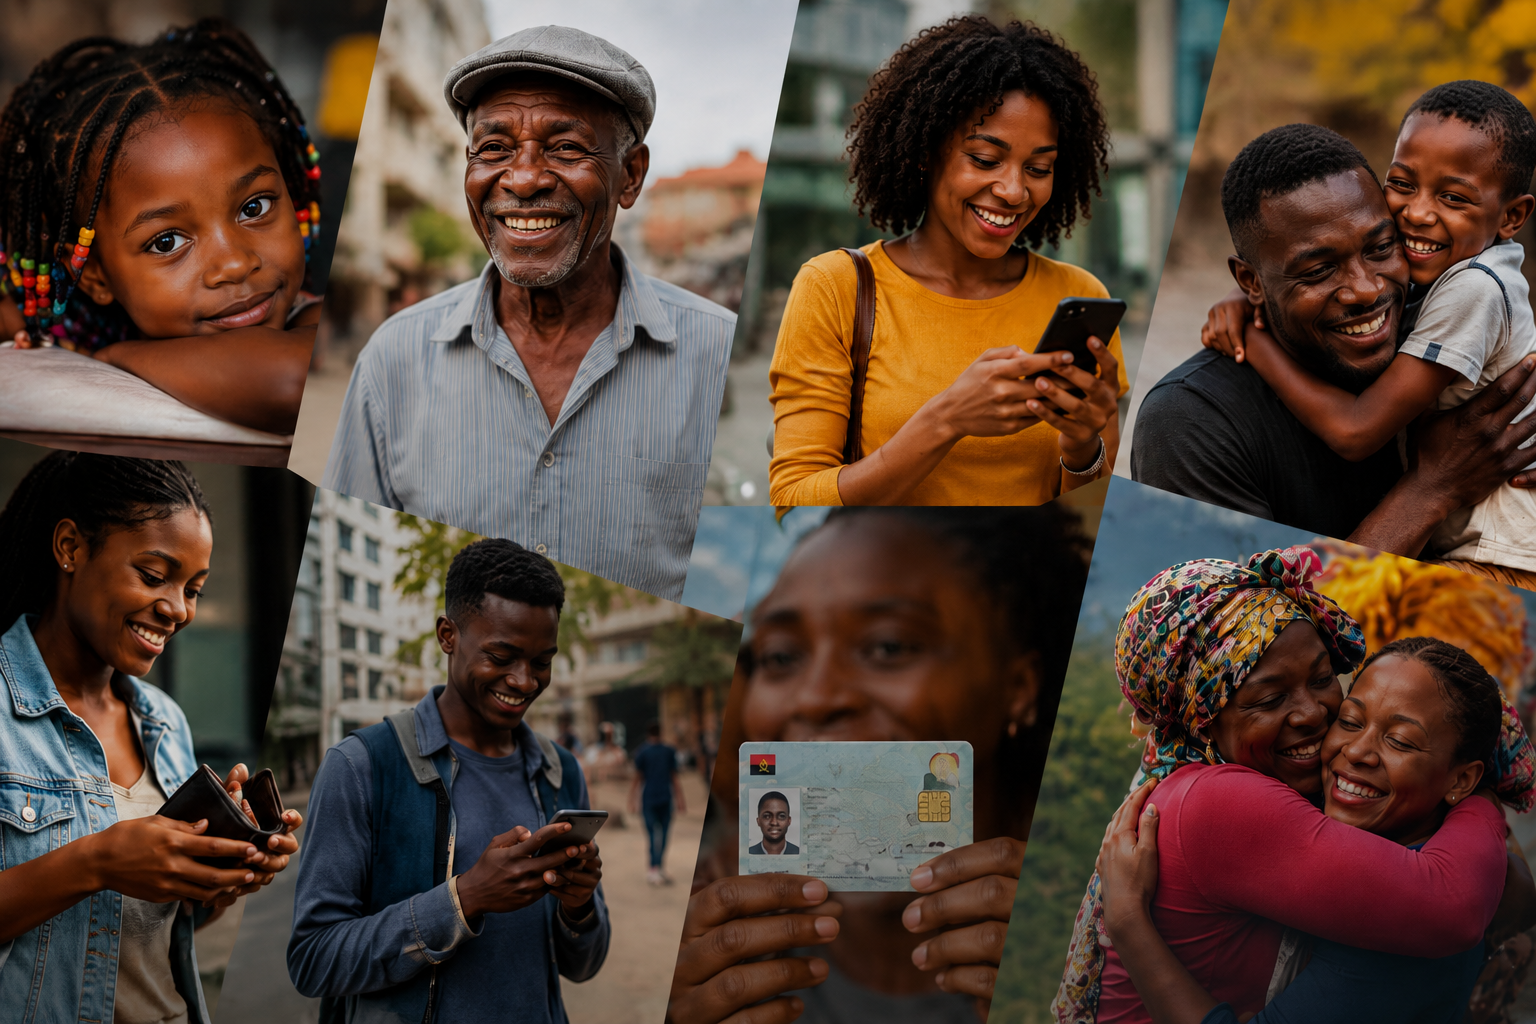
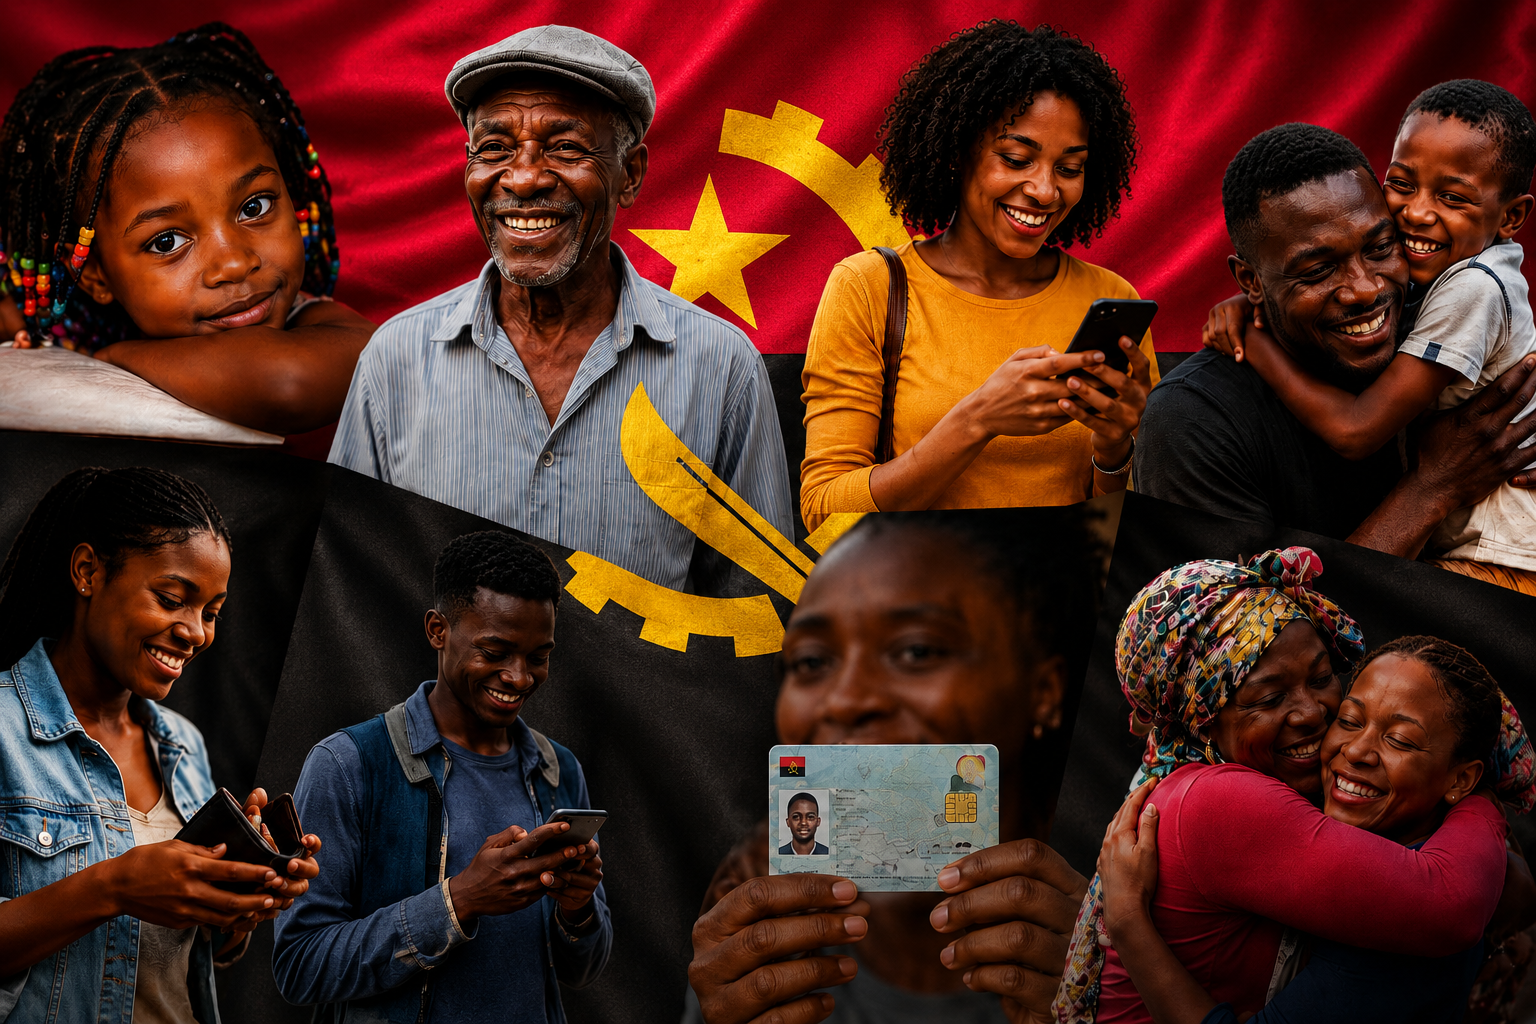
adicionar imagem ao projecto
alteracao second

diff --git a/server.js b/server.js
@@ -1,131 +1,27 @@
 const express = require("express");
-const path = require("path");
+const cors = require("cors");
+const { Pool } = require("pg");
 
 const app = express();
-const PORT = 3000;
 
-// Permite receber dados em JSON
+app.use(cors());
 app.use(express.json());
 
-// Permite receber dados de formulários
-app.use(express.urlencoded({ extended: true }));
 
-// Servir ficheiros estáticos (HTML, CSS, JS, imagens)
-app.use(express.static(path.join(__dirname)));
-
-// Página inicial
-app.get("/", (req, res) => {
-    res.sendFile(path.join(__dirname, "index.html"));
+const db = new Pool({
+    user: "postgres",
+    host: "localhost",
+    database: "perdidos_achados",
+    password: "A_TUA_SENHA_DO_POSTGRES",
+    port: 5432
 });
 
-// Rota de teste
-app.get("/api", (req, res) => {
-    res.json({
-        mensagem: "Servidor do Perdidos & Achados.ao está a funcionar!"
-    });
-});
-// Base de dados temporária (em memória)
 
-const anuncios = [
-
-{
-    id:1,
-    titulo:"Bilhete encontrado",
-    provincia:"Luanda",
-    municipio:"Viana",
-    estado:"Perdido",
-    foto:"bi.jpg"
-},
-
-{
-    id:2,
-    titulo:"Carteira Perdida",
-    provincia:"Luanda",
-    municipio:"Talatona",
-    estado:"Perdido",
-    foto:"carteira.jpg"
-},
-
-{
-    id:3,
-    titulo:"iPhone 14 Encontrado!",
-    provincia:"Luanda",
-    municipio:"Cazenga",
-    estado:"Encontrado",
-    foto:"iphone.jpg"
-},
-
-{
-    id:4,
-    titulo:"chaves encontradas",
-    provincia:"Benguela",
-    municipio:"Baia",
-    estado:"Encontrado",
-    foto:"chave.jpg"
-},
-
-{
-    id:5,
-    titulo:"meninos desaparecidos",
-    provincia:"Huambo",
-    municipio:"lubango",
-    estado:"perdido",
-    foto:"pessoa.jpg"
-},
-
-{
-    id:6,
-    titulo:"mochila esquecida",
-    provincia:"Icolo e bengo",
-    municipio:"zango 1",
-    estado:"perdido",
-    foto:"mochila.jpg"
-},
-
-{
-    id:7,
-    titulo:"cao desaparecido",
-    provincia:"Cabinda",
-    municipio:"Cabinda",
-    estado:"perdido",
-    foto:"animal.jpg"
-},
-
-{
-    id:8,
-    titulo:"pen-drive esquecido",
-    provincia:"Luanda",
-    municipio:"morrobento",
-    estado:"Encontrado",
-    foto:"pen-drive.jpg"
-},
-
-];
-
-// Listar anúncios
-
-app.get("/api/anuncios", (req, res) => {
-
-    const pesquisa = req.query.q;
-
-    if (!pesquisa) {
-        return res.json(anuncios);
-    }
-
-    const resultado = anuncios.filter(anuncio =>
-
-        anuncio.titulo.toLowerCase().includes(pesquisa.toLowerCase())
-
-    );
-
-    res.json(resultado);
-
+app.get("/", (req,res)=>{
+    res.send("Servidor Perdidos & Achados funcionando!");
 });
 
-// Iniciar servidor
-app.listen(PORT, () => {
-    console.log("==================================");
-    console.log("Perdidos & Achados.ao");
-    console.log(`Servidor iniciado em: http://localhost:${PORT}`);
-    console.log("==================================");
+
+app.listen(3000, ()=>{
+    console.log("Servidor ligado na porta 3000");
 });
